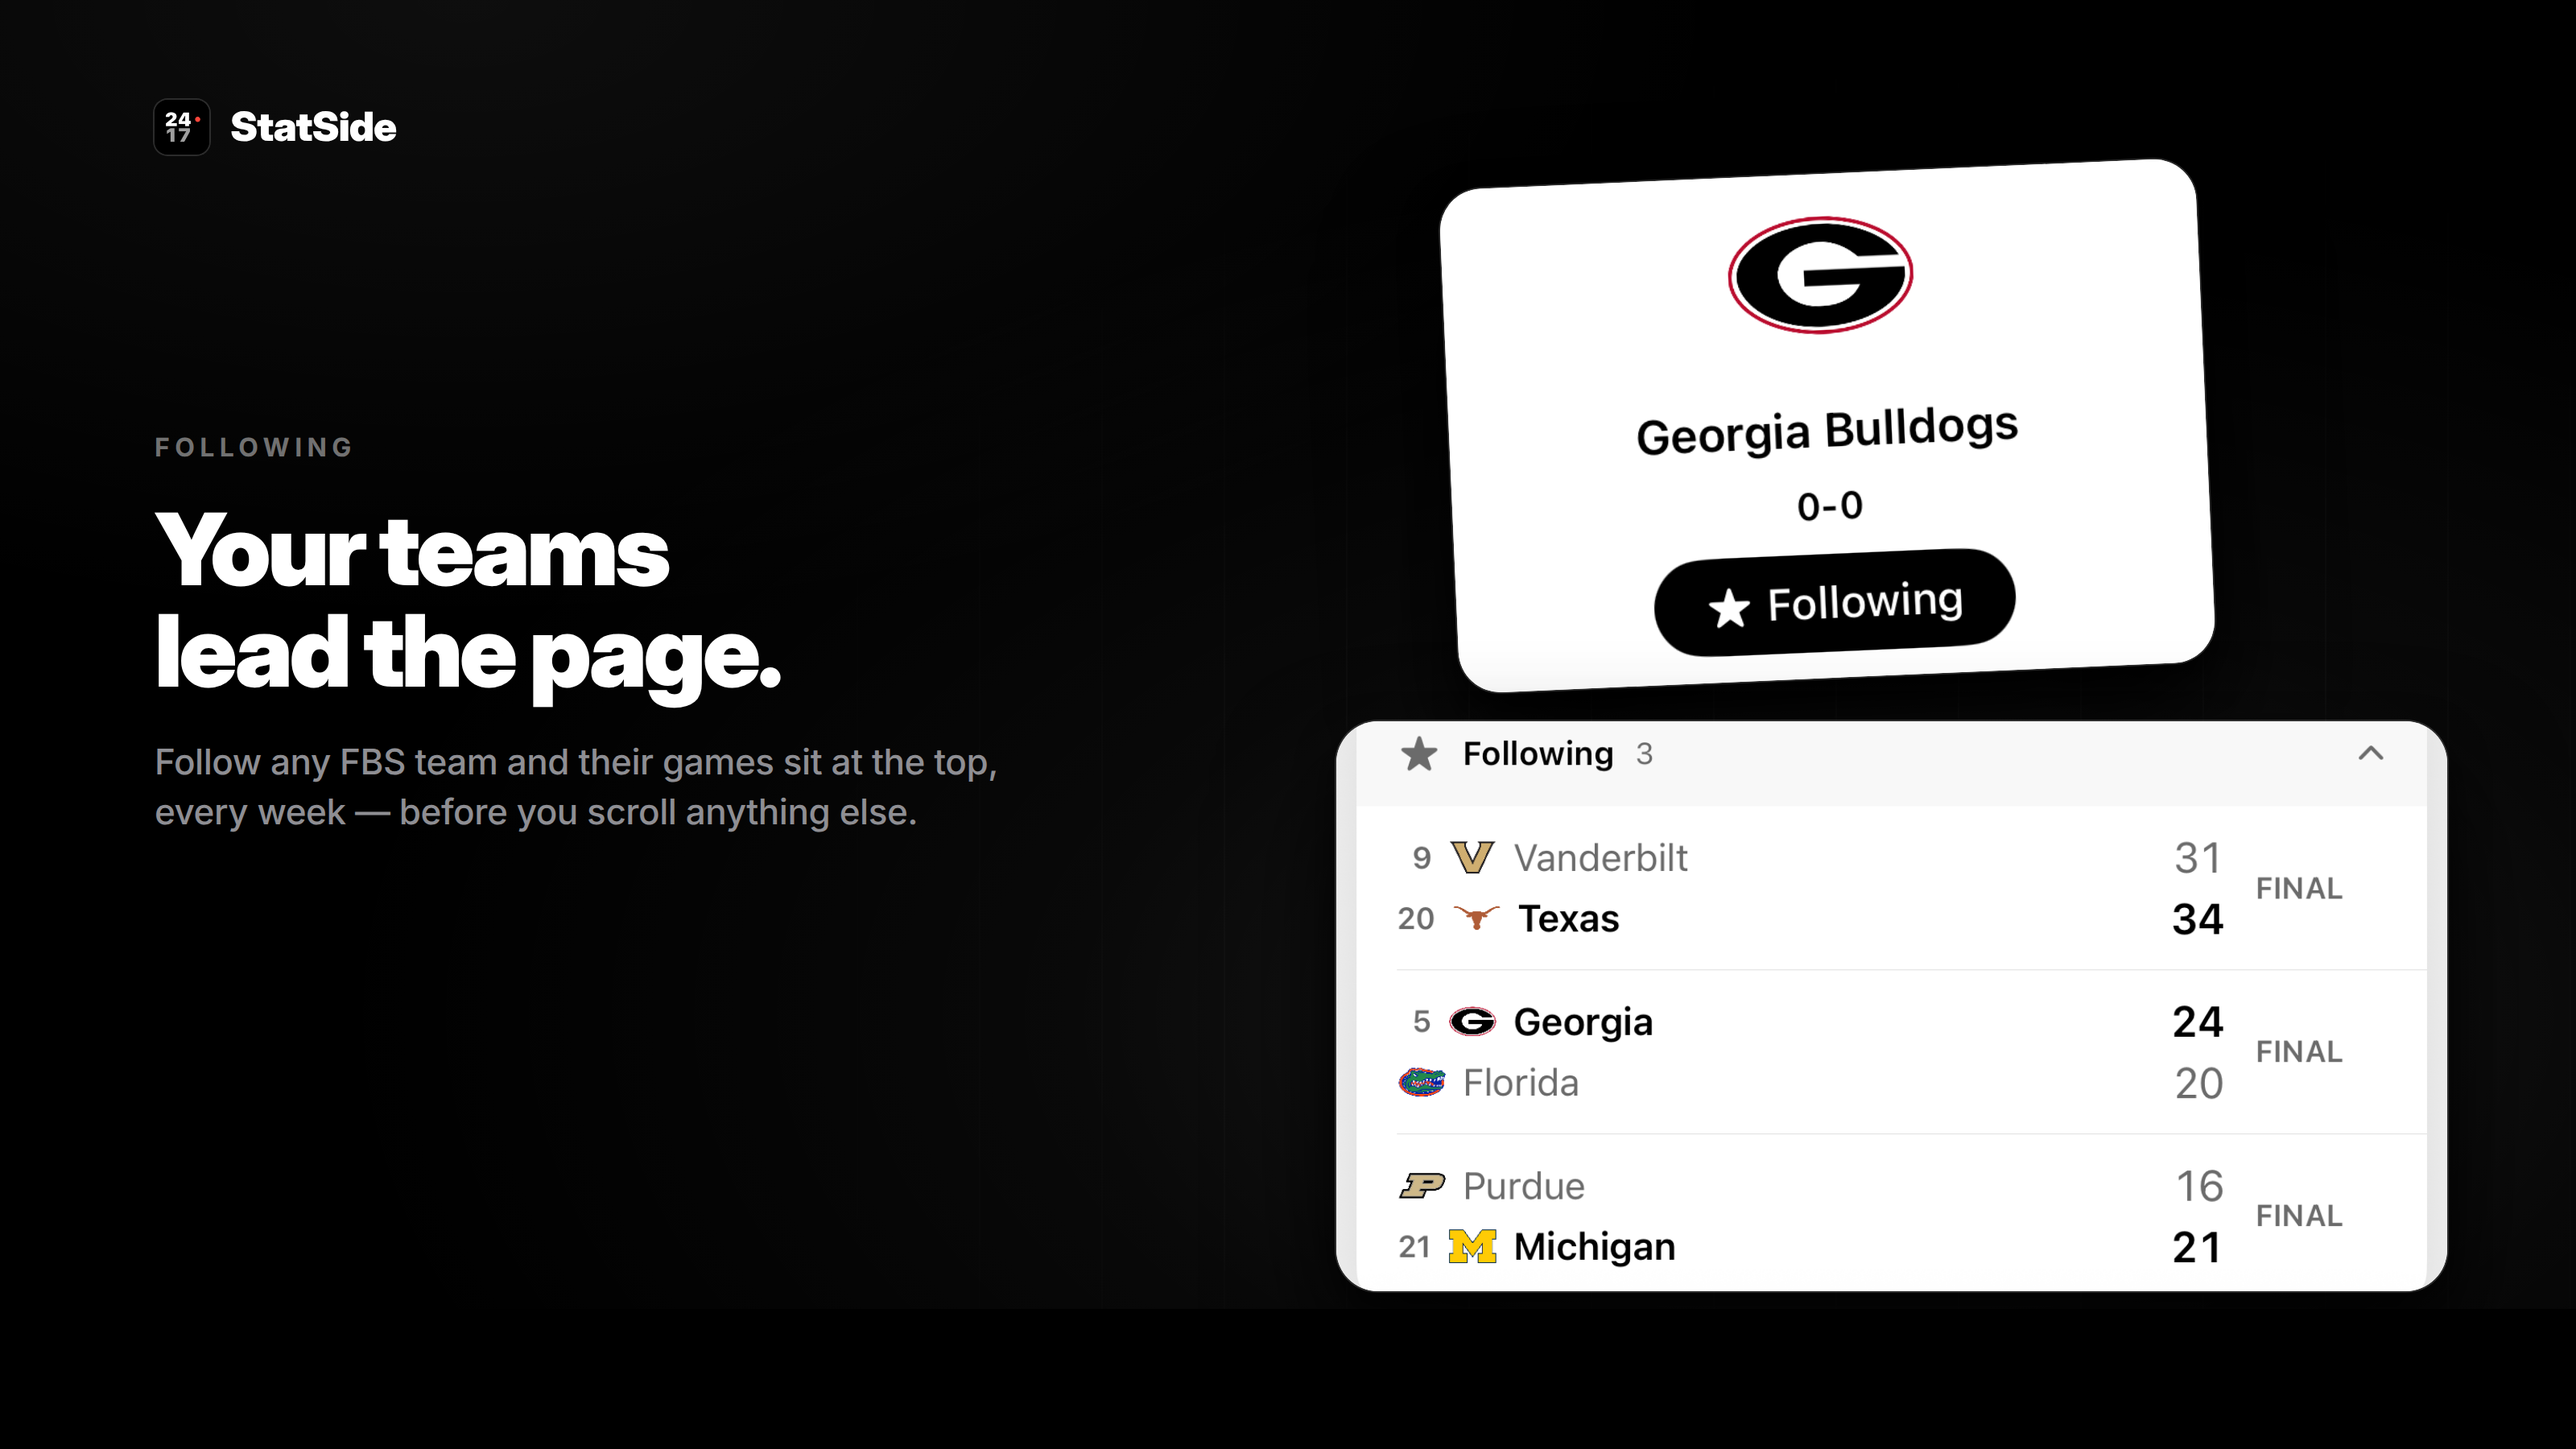
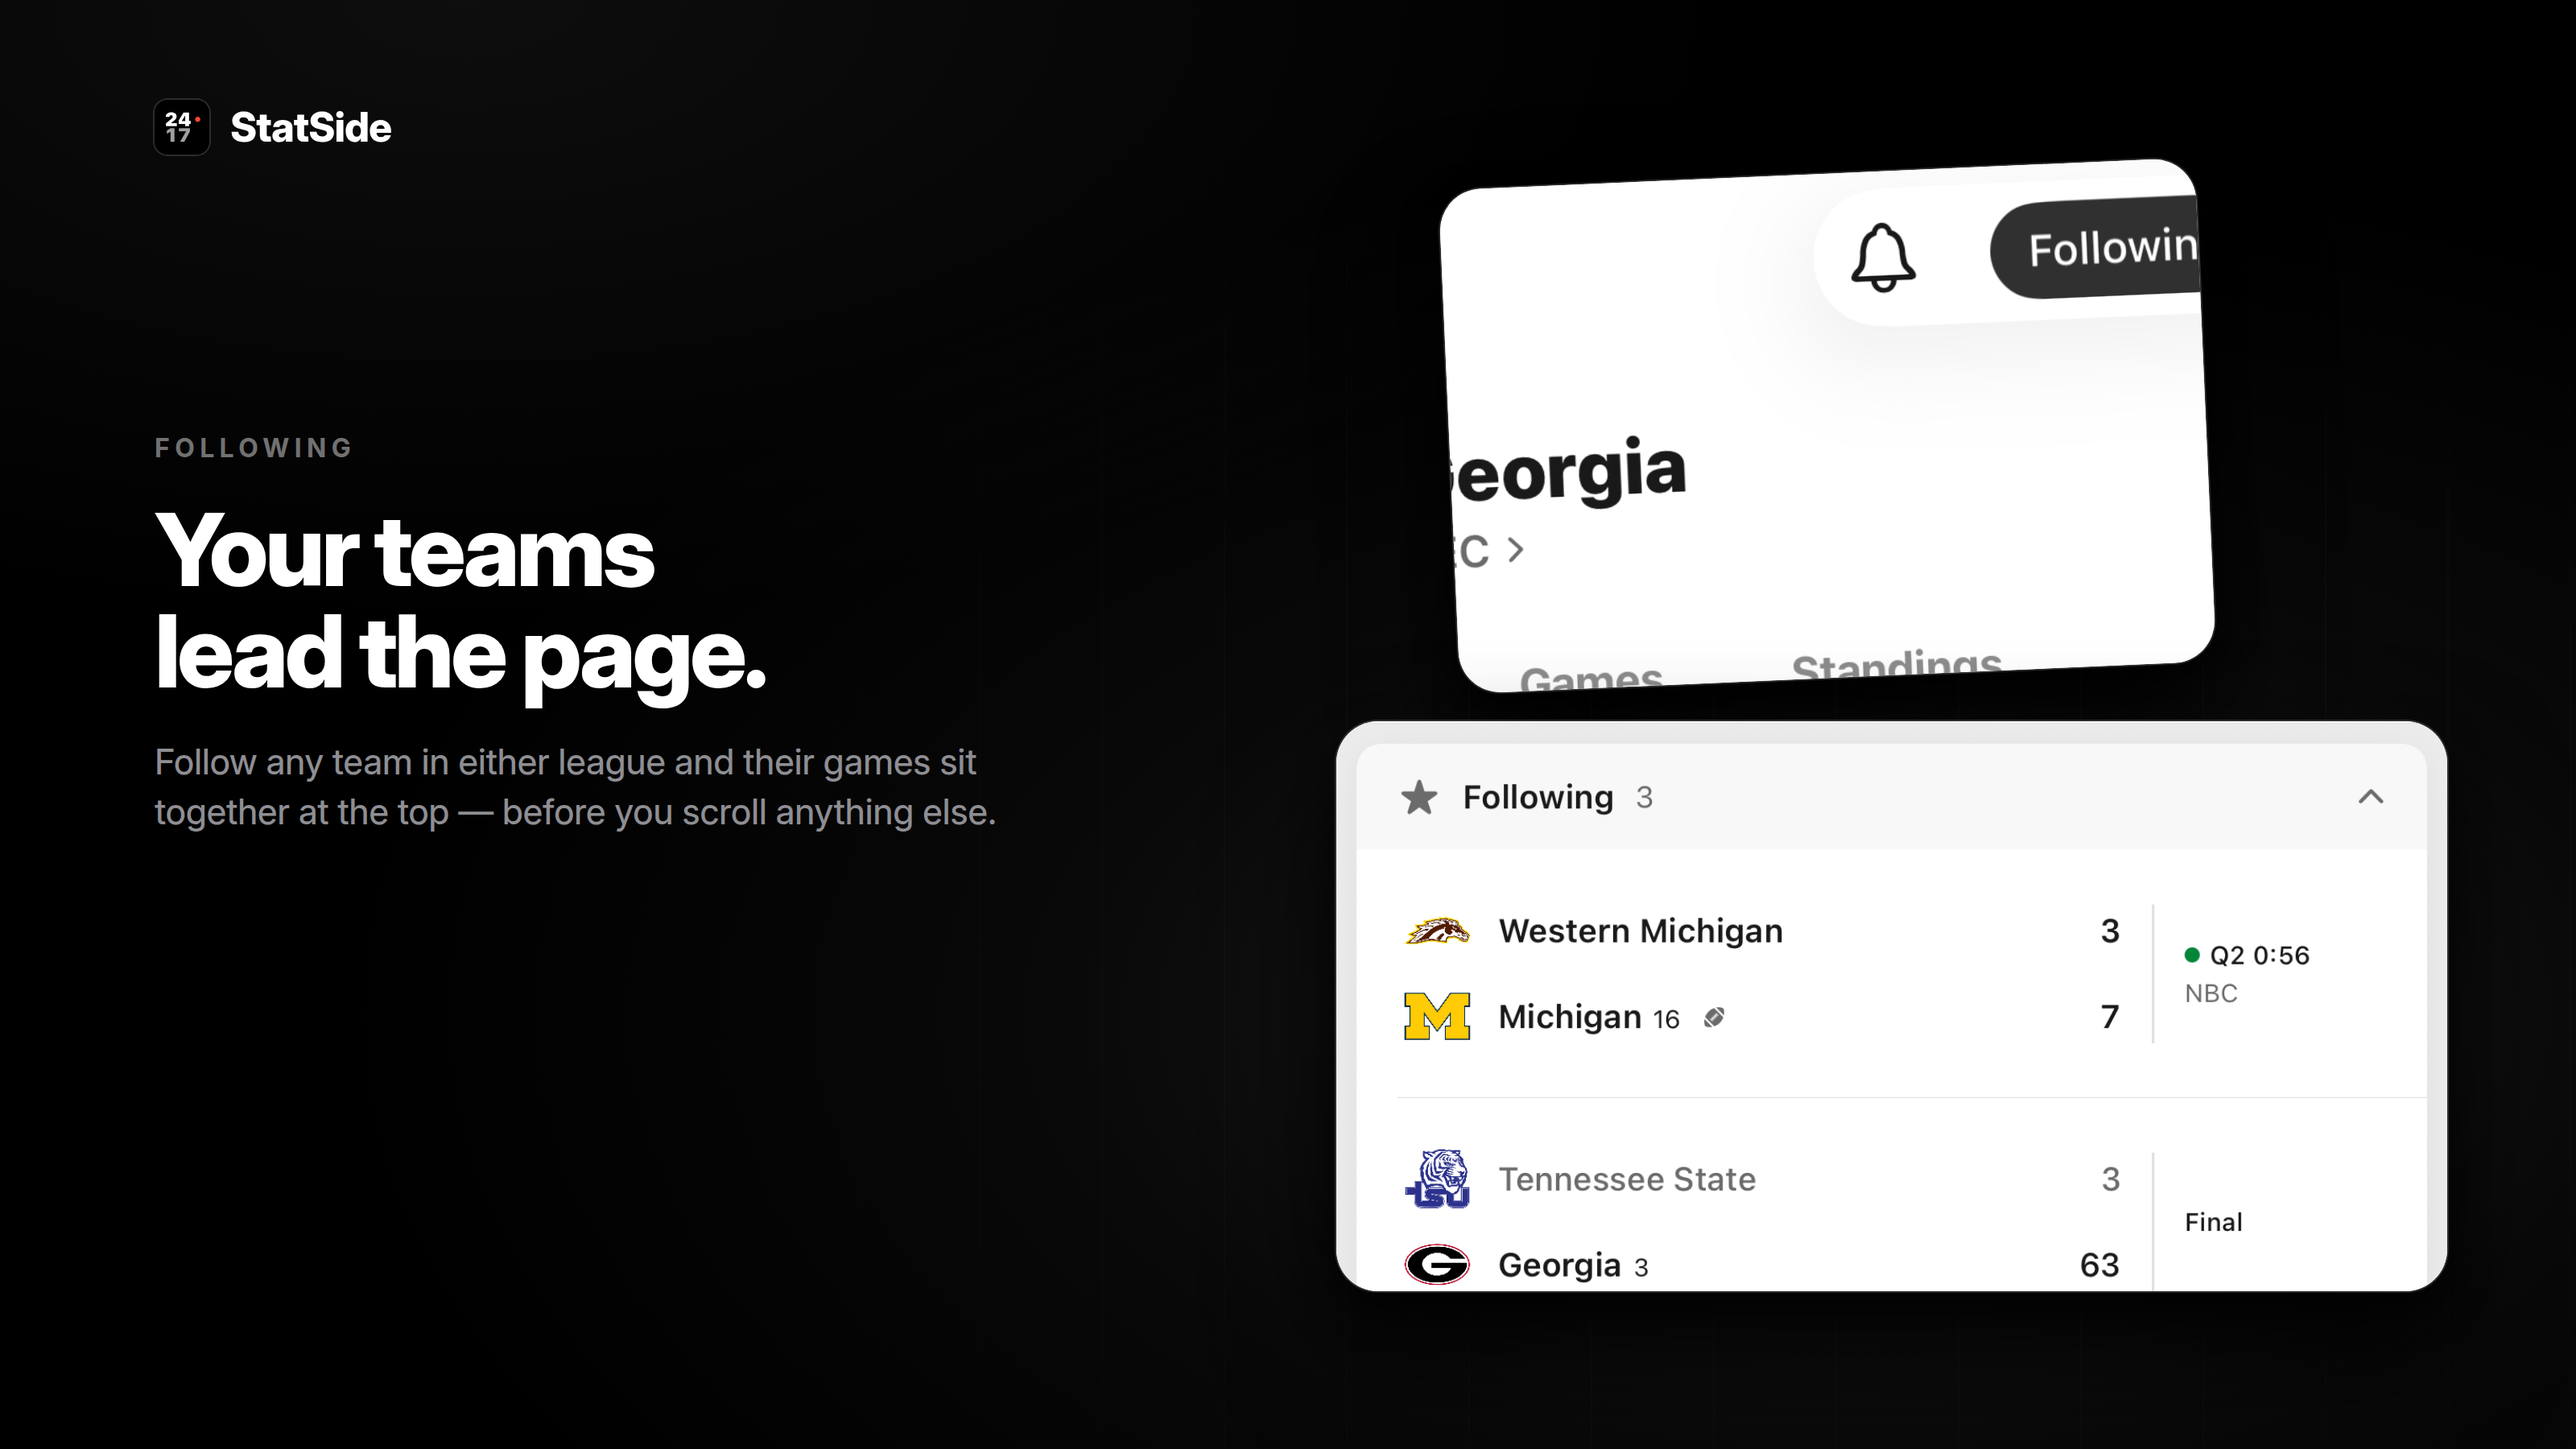
Re-render the thread and story graphics against the current app
02-follow and 04-week (and their story counterparts) still carried
pre-1.4.0 crop offsets, and 04-week's frame described the week strip,
which retired 2026-09-05. Re-aimed both at the 2026-09-06 reshoot the
as-* App Store crops already use, and 04-week becomes "A day at a
time", cropping the day strip and the Sunday slate beneath it.

Clears the graphics note that was blocking the 2.1 thread from going
out as images.

diff --git a/docs/social/src/story-04-week.html b/docs/social/src/story-04-week.html
@@ -17,17 +17,17 @@
 
   /* Same stack as the 16:9 card: the strip, then the slate it controls. */
   .crop.strip {
-    width: 920px; height: 86px;
+    width: 920px; height: 84px;
     left: 80px; top: 760px;
     border-radius: 18px;
   }
-  .crop.strip img { width: 920px; left: 0; top: -206px; }
+  .crop.strip img { width: 920px; left: 0; top: -265px; }
 
   .crop.slate {
     width: 920px; height: 1020px;
     left: 80px; top: 900px;
   }
-  .crop.slate img { width: 920px; left: 0; top: -328px; }
+  .crop.slate img { width: 920px; left: 0; top: -352px; }
 </style>
 </head>
 <body>
@@ -38,13 +38,13 @@
         <img src="../../../sports/Assets.xcassets/AppIcon.appiconset/AppIcon.png">
         <div class="wordmark">StatSide</div>
       </div>
-      <div class="kicker">A week, not a date</div>
-      <div class="headline">College football<br>thinks in weeks.</div>
-      <div class="sub">Flip from Week 0 to championship week, the bowls, and the Playoff.</div>
+      <div class="kicker">A day at a time</div>
+      <div class="headline">Saturday.<br>Then Sunday.</div>
+      <div class="sub">A day at a time, all season — swipe forward, or jump back to today.</div>
     </div>
 
-    <div class="crop strip"><img src="../../appstore/screenshots/01-scores.png"></div>
-    <div class="crop slate"><img src="../../appstore/screenshots/01-scores.png"></div>
+    <div class="crop strip"><img src="../../appstore/screenshots/08-nfl-sunday.png"></div>
+    <div class="crop slate"><img src="../../appstore/screenshots/08-nfl-sunday.png"></div>
   </div>
 </div>
 </body>

diff --git a/docs/social/src/04-week.html b/docs/social/src/04-week.html
@@ -28,13 +28,13 @@
     left: 210px; top: 432px;
     border-radius: 20px;
   }
-  .crop.strip img { width: 1180px; left: 0; top: -265px; }
+  .crop.strip img { width: 1180px; left: 0; top: -340px; }
 
   .crop.slate {
     width: 1180px; height: 320px;
     left: 210px; top: 580px;
   }
-  .crop.slate img { width: 1180px; left: 0; top: -420px; }
+  .crop.slate img { width: 1180px; left: 0; top: -451px; }
 </style>
 </head>
 <body>
@@ -47,16 +47,16 @@
     </div>
 
     <div class="head">
-      <div class="kicker">A week, not a date</div>
-      <div class="headline">College football thinks in weeks.</div>
-      <div class="sub">Flip from Week 0 to championship week, the bowls, and the Playoff. Sunday keeps the completed week on screen until the new polls drop.</div>
+      <div class="kicker">A day at a time</div>
+      <div class="headline">Saturday.<br>Then Sunday.</div>
+      <div class="sub">A day at a time, all season — swipe forward, or jump back to Today whenever you've wandered off.</div>
     </div>
 
     <div class="crop strip">
-      <img src="../../appstore/screenshots/01-scores.png">
+      <img src="../../appstore/screenshots/08-nfl-sunday.png">
     </div>
     <div class="crop slate">
-      <img src="../../appstore/screenshots/01-scores.png">
+      <img src="../../appstore/screenshots/08-nfl-sunday.png">
     </div>
 
   </div>

diff --git a/docs/social/src/story-02-follow.html b/docs/social/src/story-02-follow.html
@@ -15,19 +15,19 @@
   }
 
   .crop.follow {
-    width: 560px; height: 373px;
+    width: 560px; height: 424px;
     left: 260px; top: 806px;
     transform: rotate(-2.5deg);
     z-index: 2;
   }
-  .crop.follow img { width: 1027px; left: -233px; top: -327px; }
+  .crop.follow img { width: 560px; left: 0; top: -72px; }
 
   .crop.section {
-    width: 880px; height: 452px;
+    width: 880px; height: 640px;
     left: 100px; top: 1218px;
     z-index: 3;
   }
-  .crop.section img { width: 880px; left: 0; top: -322px; }
+  .crop.section img { width: 880px; left: 0; top: -333px; }
 </style>
 </head>
 <body>
@@ -40,7 +40,7 @@
       </div>
       <div class="kicker">Following</div>
       <div class="headline">Your teams<br>lead the page.</div>
-      <div class="sub">Follow any FBS team and their games sit at the top, every week — before you scroll anything else.</div>
+      <div class="sub">Follow any team in either league and their games sit together at the top — before you scroll anything else.</div>
     </div>
 
     <div class="crop follow"><img src="../../appstore/screenshots/06-team-page.png"></div>

diff --git a/docs/social/src/02-follow.html b/docs/social/src/02-follow.html
@@ -25,14 +25,14 @@
     transform: rotate(-2.5deg);
     z-index: 2;
   }
-  .crop.follow img { width: 862px; left: -196px; top: -274px; }
+  .crop.follow img { width: 862px; left: -196px; top: -111px; }
 
   .crop.section {
     width: 690px; height: 354px;
     left: 830px; top: 448px;
     z-index: 3;
   }
-  .crop.section img { width: 690px; left: 0; top: -252px; }
+  .crop.section img { width: 690px; left: 0; top: -261px; }
 </style>
 </head>
 <body>
@@ -47,7 +47,7 @@
     <div class="head">
       <div class="kicker">Following</div>
       <div class="headline">Your teams<br>lead the page.</div>
-      <div class="sub">Follow any FBS team and their games sit at the top, every week — before you scroll anything else.</div>
+      <div class="sub">Follow any team in either league and their games sit together at the top — before you scroll anything else.</div>
     </div>
 
     <div class="crop follow">

diff --git a/docs/social/README.md b/docs/social/README.md
@@ -13,7 +13,7 @@ crops identically in the timeline.
 | 1. "StatSide is college football, at a glance…" | `statside-landscape-1600x900.png` | Three devices — Scores, Rankings, Game detail |
 | 2. "Kickoff is coming. Follow your teams now…" | `statside-02-follow.png` | Team page follow button + the Following section it feeds |
 | 3. BUILT FOR SATURDAYS | `statside-03-saturdays.png` | The five bullets, Scores device alongside |
-| 4. A WEEK, NOT A DATE | `statside-04-week.png` | The week strip, and the slate it controls |
+| 4. A DAY AT A TIME | `statside-04-week.png` | The day strip, and the Sunday slate it controls |
 | 5. RANKINGS AND DETAILS | `statside-05-rankings.png` | Rankings device with movement arrows, Game detail behind |
 | 6. DESIGNED QUIET | `statside-06-quiet.png` | Typographic — the four things the app doesn't do |
 | 7. "Free. Fast. One sport, done right." | `statside-07-closer.png` | Icon, wordmark, tagline, disclaimer |
@@ -70,7 +70,7 @@ frame of their own, which pushed "designed quiet" and the closer to 07 and 08.
 | 1 | `01-hero.png` | Three devices — Scores, Rankings, Game detail |
 | 2 | `02-follow.png` | The team-page hero and the Following section it feeds |
 | 3 | `03-saturdays.png` | The five bullets, Scores device alongside |
-| 4 | `04-week.png` | The week strip, and the slate it controls |
+| 4 | `04-week.png` | The day strip, and the Sunday slate it controls |
 | 5 | `05-rankings.png` | The poll |
 | 6 | `06-boxscore.png` | Box score tab, both teams, real stat lines |
 | 7 | `07-quiet.png` | Typographic — the four things the app doesn't do |
@@ -153,15 +153,16 @@ file that matters.
   the card width and offset with negative `top` to land on the region you want.
   Screenshots are 1320 × 2868, so `scale = card_width / 1320` and
   `top = -region_y * scale`. Change the screenshots and every offset moves.
-- **The thread and story sources still carry the pre-1.4.0 offsets.** The
-  `as-*` crops were re-aimed at the 2026-09-05 reshoot; `02-follow.html`,
-  `04-week.html` and their `story-*` counterparts were not, so re-rendering
-  those today lands their windows on the wrong rows. The committed PNGs in
-  `docs/social/` are the old renders and are still internally consistent —
-  they just can't be regenerated without the same pass. Regions worth knowing
-  on the current shots: week strip `y 380-500`, Scores' Following card
-  `y 526-1536`, Top 25 card `y 1560-2608`, the team-page hero through its
-  first card `y 170-1170`.
+- **`02-follow.html`/`story-02-follow.html` and `04-week.html`/`story-04-week.html`
+  were re-aimed 2026-09-08**, matching the `as-*` crops the App Store set already
+  used since the 2026-09-06 reshoot. `04-week` also stopped being about the week
+  strip, which had already retired — it's "A day at a time" now, cropping
+  `08-nfl-sunday.png` (the day strip, then the Sunday slate below it) the same way
+  `as-04-week.html` does. `02-follow` still crops `06-team-page.png` and
+  `01-scores.png`, just at the corrected offsets. The committed PNGs in
+  `docs/social/` reflect this pass. Regions worth knowing on the current shots:
+  the day strip `y 380-500`, Scores' Following card `y 500-1460`, Top 25 card
+  `y 1560-2608`, the team-page hero through its first card `y 170-1170`.
 - Device frames are driven by one number: `font-size` on `.phone` sets its
   width (`width: 1em`), and the bezel and radii are `em` fractions of it. The
   outer radius is `screen-radius + bezel`, so the curves stay concentric at any

diff --git a/docs/social/launch-copy-2.1.md b/docs/social/launch-copy-2.1.md
@@ -4,16 +4,13 @@ Draft copy for getting the 2.0/2.1 update in front of actual college football
 and NFL fans. Written to pair with the existing asset library in this folder.
 Nothing here is load-bearing — edit freely.
 
-## Before posting: a graphics note
+## Graphics status
 
-The thread/story PNGs in this folder were shot before the day-strip and NFL
-landed. Per this folder's own README, `02-follow` and `04-week` still carry
-pre-1.4.0 crop offsets, and the "A WEEK, NOT A DATE" frame describes the week
-strip, which retired 2026-09-05. Posting the current PNGs next to copy that
-talks about the day strip and both leagues would show a screenshot that
-contradicts the text. Worth a reshoot + re-render pass (see this folder's
-"Regenerating" section) before this thread goes out as images. The captions
-below are written for what the app does today; they'll need graphics to match.
+Fixed 2026-09-08: `statside-02-follow.png` and `statside-04-week.png` (plus
+their story-set counterparts) were re-rendered against the current app — day
+strip, both leagues, real Inter font. `04-week`'s frame is now "A day at a
+time" instead of the retired week strip, matching the copy below. Nothing
+left blocking this thread from going out as images.
 
 ## X / Twitter thread
 
